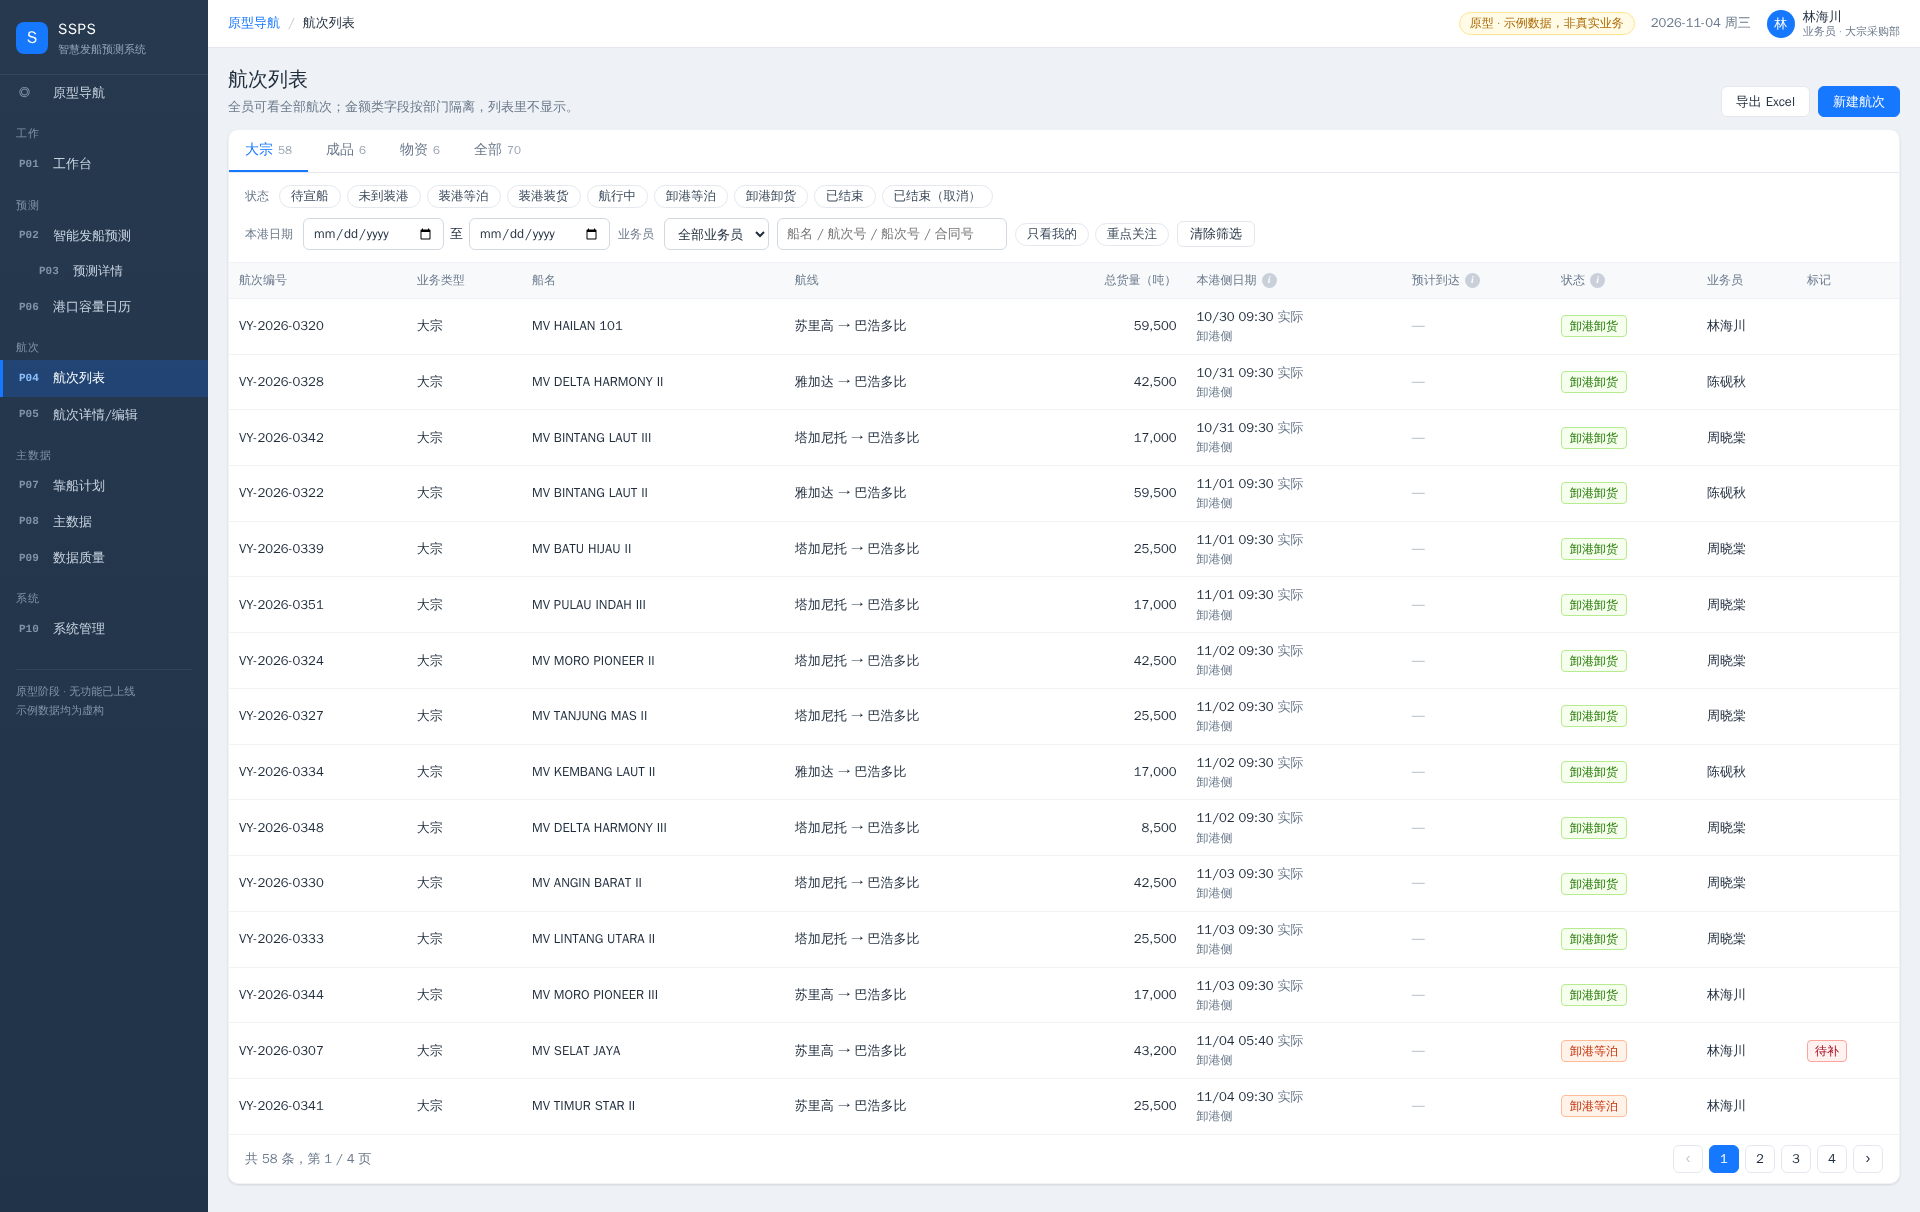
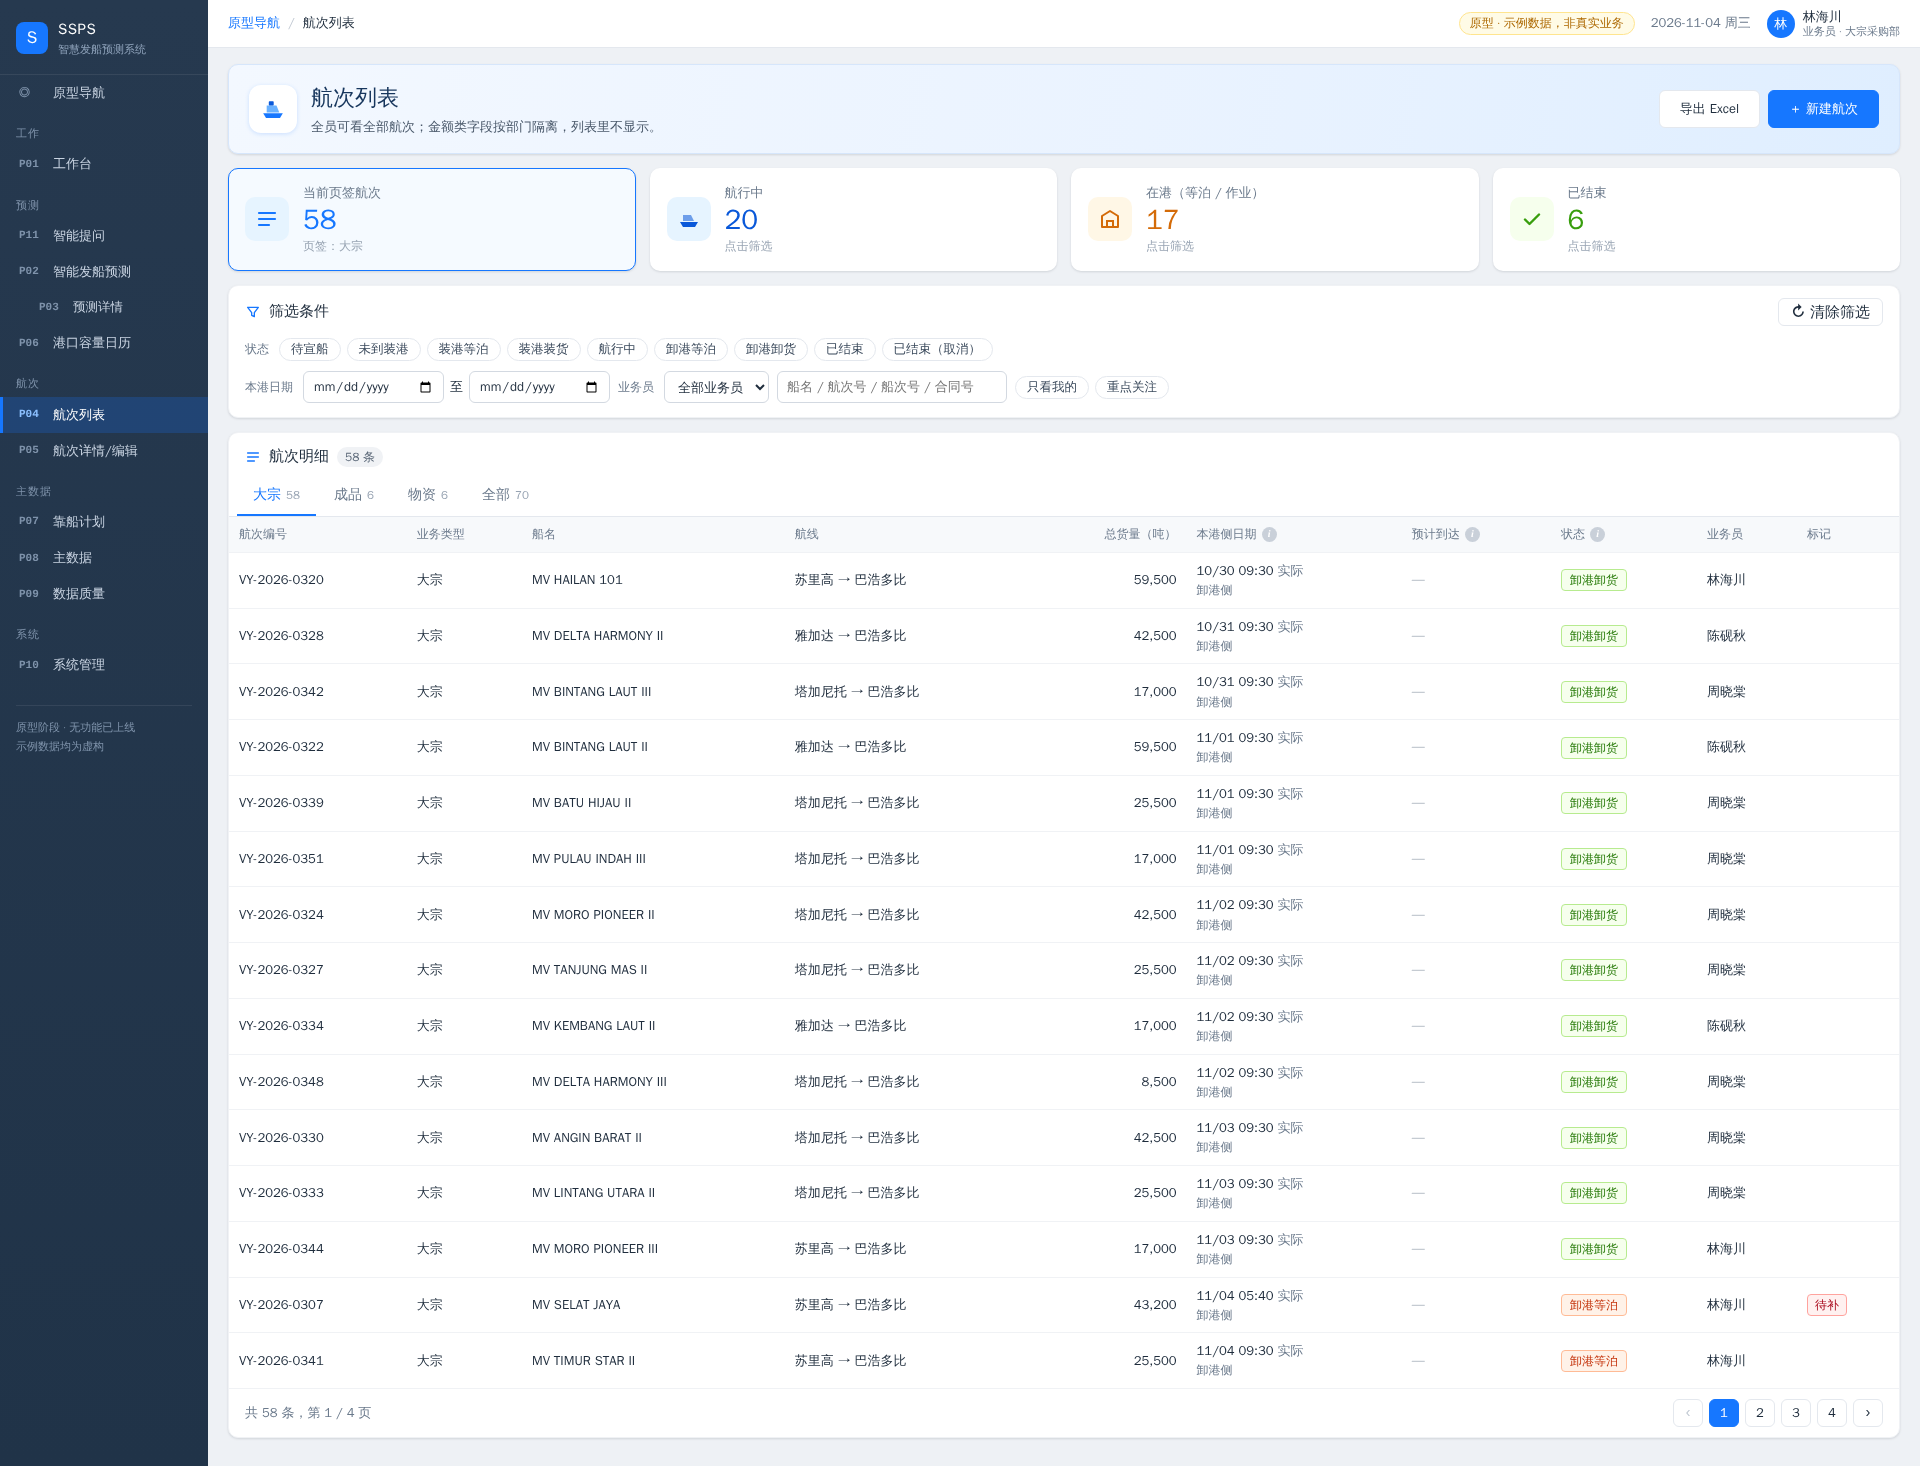
P04 航次列表按新风格重新排版（标题卡、状态指标卡快捷筛选、筛选卡、明细卡）；筛选与排序规则不变
Claude-Session: https://claude.ai/code/session_01S7EgPzREeeBA8rsxhMLUP6

diff --git a/prototype/P04-voyage-list.html b/prototype/P04-voyage-list.html
@@ -6,14 +6,35 @@
 <title>P04 航次列表 · SSPS 原型</title>
 <link rel="stylesheet" href="assets/app.css">
 <style>
+/* 2026-11-05 按 P01/P02 新风格重排；筛选、排序、分页规则不变 */
+.hero{display:flex;justify-content:space-between;align-items:center;gap:14px;flex-wrap:wrap;padding:16px 20px;margin-bottom:14px;background:linear-gradient(100deg,#f3f8ff 0%,#eaf3ff 55%,#dfeeff 100%);border:1px solid #d6e6fb}
+.hero .ht{display:flex;align-items:center;gap:14px;min-width:0}
+.hero .av{width:48px;height:48px;border-radius:12px;background:#fff;display:grid;place-items:center;box-shadow:0 1px 4px rgba(22,119,255,.18);flex:none}
+.hero h1{margin:0;font-size:22px;color:#17365d}
+.hero p{margin:2px 0 0;color:#4a596b}
 .btns{display:flex;gap:8px;flex-wrap:wrap}
+.btns .btn{height:38px;padding:0 20px;white-space:nowrap}
+.sumrow{display:grid;grid-template-columns:repeat(4,minmax(0,1fr));gap:14px;margin-bottom:14px}
+.sm{display:flex;align-items:center;gap:14px;padding:14px 16px;cursor:pointer;border:1px solid transparent;min-width:0}
+.sm:hover{border-color:var(--primary)}
+.sm.on{border-color:var(--primary);background:#f5faff}
+.sm .ico{width:44px;height:44px;border-radius:10px;display:grid;place-items:center;flex:none}
+.sm .ico svg{width:24px;height:24px}
+.sm .lb{color:var(--muted);font-size:13px;white-space:nowrap}
+.sm b{display:block;font-size:28px;line-height:1.2}
+.sm .nt{font-size:12px;color:var(--faint);white-space:nowrap;overflow:hidden;text-overflow:ellipsis}
+.ch{display:flex;align-items:center;gap:8px;padding:12px 16px 6px;font-weight:600;font-size:15px;white-space:nowrap}
+.ch .btn{font-size:13px;font-weight:400}
+.ch .sp{flex:1}.ch .cnt{background:#f0f2f5;color:#5b6878;border-radius:10px;padding:0 8px;font-size:12px;line-height:20px;font-weight:500}
+.fcard{margin-bottom:14px}
+.list .tabs2{padding:0 8px}
 .flt{display:flex;flex-wrap:wrap;gap:8px 8px;align-items:center}
 .flt .lab{color:var(--muted);font-size:12px;white-space:nowrap;margin-right:2px}
 .flt .grp{display:flex;flex-wrap:wrap;gap:6px;align-items:center}
 .dr{display:flex;align-items:center;gap:6px}
 .dr .inp{width:150px}
 .flt .inp{width:auto}
-.fbox{padding:12px 16px;border-bottom:1px solid var(--line-2);display:grid;gap:10px}
+.fbox{padding:6px 16px 14px;display:grid;gap:10px}
 .who{font-weight:600;white-space:nowrap}
 .sub2{display:block;color:var(--muted);font-size:12px;font-weight:400;white-space:nowrap}
 .mk{display:inline-flex;gap:4px;align-items:center;flex-wrap:nowrap}
@@ -35,6 +56,9 @@
   .cards{display:block}
   .dr .inp{width:100%}
   .dr{flex:1}
+  .sumrow{grid-template-columns:repeat(2,minmax(0,1fr));gap:10px}
+  .sm{padding:12px;gap:10px}.sm .ico{width:36px;height:36px}.sm b{font-size:24px}.sm .nt{display:none}
+  .hero{padding:14px}.hero .av{display:none}.btns{width:100%}.btns .btn{flex:1}
 }
 </style>
 </head>
@@ -42,10 +66,14 @@
 <div class="app"><aside id="nav"></aside>
   <div class="main"><header id="topbar"></header>
     <main class="page">
-      <div class="ptitle"><div><h1>航次列表</h1><p>全员可看全部航次；金额类字段按部门隔离，列表里不显示。</p></div>
-        <div class="btns"><button class="btn" id="exp">导出 Excel</button><button class="btn primary" id="newv">新建航次</button></div></div>
-      <section class="card">
-        <div class="tabs2" id="tabs"></div>
+      <div class="card hero">
+        <div class="ht"><div class="av"><svg width="28" height="28" viewBox="0 0 40 40"><path d="M6 26h28l-4 7H10z" fill="#1677ff"/><path d="M11 25V15h14l4 10z" fill="#69b1ff"/><rect x="14" y="9" width="7" height="6" rx="1" fill="#0958d9"/></svg></div>
+          <div><h1>航次列表</h1><p>全员可看全部航次；金额类字段按部门隔离，列表里不显示。</p></div></div>
+        <div class="btns"><button class="btn" id="exp">导出 Excel</button><button class="btn primary" id="newv">＋ 新建航次</button></div>
+      </div>
+      <div class="sumrow" id="sum"></div>
+      <section class="card fcard">
+        <div class="ch"><svg width="16" height="16" viewBox="0 0 24 24"><path d="M4 5h16l-6 8v6l-4-2v-4z" fill="none" stroke="#1677ff" stroke-width="2" stroke-linejoin="round"/></svg>筛选条件<span class="sp"></span><button class="btn" id="clr" style="padding:2px 12px">↻ 清除筛选</button></div>
         <div class="fbox">
           <div class="flt"><span class="lab">状态</span><div class="grp" id="stf"></div></div>
           <div class="flt">
@@ -53,9 +81,12 @@
             <span class="lab">业务员</span><select class="inp" id="own"></select>
             <input class="inp" id="kw" placeholder="船名 / 航次号 / 船次号 / 合同号" style="min-width:230px">
             <div class="grp"><button class="chipf" id="onlyMe">只看我的</button><button class="chipf" id="onlyStar">重点关注</button></div>
-            <button class="btn" id="clr" style="padding:2px 12px">清除筛选</button>
           </div>
         </div>
+      </section>
+      <section class="card list">
+        <div class="ch"><svg width="16" height="16" viewBox="0 0 24 24"><path d="M4 6h16M4 12h16M4 18h10" stroke="#1677ff" stroke-width="2.2" stroke-linecap="round"/></svg>航次明细<span class="cnt" id="total"></span><span class="sp"></span></div>
+        <div class="tabs2" id="tabs"></div>
         <div class="tbl-wrap"><table class="tbl" id="tbl"></table></div>
         <div class="cards" id="cards"></div>
         <div class="pager" id="pager"></div>
@@ -102,6 +133,26 @@
   const route = (v) => C.zh(v.load) + ' → ' + C.zh(v.disch) + (v.disch2 ? ' / ' + C.zh(v.disch2) : '');
   const dateCell = (v) => { const l = C.localDate(v); return '<span class="nw">' + (l.act ? '<b>' + C.mdh(l.act) + '</b> <span class="mut">实际</span>' : C.md(l.plan) + ' <span class="mut">计划</span>') + '</span>' + (C.side(v) === '装' ? '<span class="sub2">装港侧</span>' : '<span class="sub2">卸港侧</span>'); };
 
+  // 指标卡：当前页签下按状态计数，点一下等于在「状态」里勾选这些状态（只是快捷筛选，规则不变）
+  const GROUPS = [
+    ['all', '当前页签航次', [], '#1677ff', '#e6f4ff', '<path d="M4 6h16M4 12h16M4 18h10" stroke="#COL" stroke-width="2.2" stroke-linecap="round" fill="none"/>'],
+    ['sail', '航行中', ['航行中'], '#0958d9', '#e6f4ff', '<path d="M3 15h18l-3 5H6z" fill="#COL"/><path d="M6 14V8h8l3 6z" fill="#COL" opacity=".55"/>'],
+    ['port', '在港（等泊 / 作业）', ['装港等泊', '装港装货', '卸港等泊', '卸港卸货'], '#d46b08', '#fff7e6', '<path d="M4 20V9l8-5 8 5v11z" fill="none" stroke="#COL" stroke-width="2" stroke-linejoin="round"/><path d="M9 20v-6h6v6" stroke="#COL" stroke-width="2" fill="none"/>'],
+    ['done', '已结束', ['已结束', '已结束（取消）'], '#389e0d', '#f6ffed', '<path d="M5 12.5l4.5 4.5L19 7.5" fill="none" stroke="#COL" stroke-width="2.4" stroke-linecap="round" stroke-linejoin="round"/>'],
+  ];
+  function drawSum() {
+    const keep = S.st; S.st = new Set(); const base = rows(); S.st = keep;
+    const cur = [...S.st].sort().join('|');
+    $('sum').innerHTML = GROUPS.map(([k, lab, sts, col, bg, ic]) => {
+      const n = sts.length ? base.filter((v) => sts.includes(C.statusOf(v))).length : base.length;
+      const on = sts.length ? cur === [...sts].sort().join('|') : !S.st.size;
+      return '<div class="card sm' + (on ? ' on' : '') + '" data-g="' + k + '"><span class="ico" style="background:' + bg + '"><svg viewBox="0 0 24 24">' + ic.replace(/#COL/g, col) + '</svg></span><div style="min-width:0"><span class="lb">' + lab + '</span><b style="color:' + col + '">' + n + '</b><div class="nt">' + (k === 'all' ? '页签：' + S.tab : '点击筛选') + '</div></div></div>';
+    }).join('');
+    $('sum').querySelectorAll('[data-g]').forEach((c) => c.onclick = () => {
+      const g = GROUPS.find((x) => x[0] === c.dataset.g); S.st = new Set(g[2]); S.page = 1;
+      $('stf').querySelectorAll('button').forEach((b) => b.classList.toggle('on', S.st.has(b.dataset.s))); draw();
+    });
+  }
   function draw() {
     const all = rows(), pages = Math.max(1, Math.ceil(all.length / PAGE)); S.page = Math.min(S.page, pages);
     const cur = all.slice((S.page - 1) * PAGE, S.page * PAGE);
@@ -118,6 +169,7 @@
     $('pager').querySelectorAll('[data-p]').forEach((b) => b.onclick = () => { S.page = +b.dataset.p; draw(); });
     const pp = $('pp'), pn = $('pn'); pp.onclick = () => { S.page--; draw(); }; pn.onclick = () => { S.page++; draw(); };
     $('onlyMe').classList.toggle('on', S.me); $('onlyStar').classList.toggle('on', S.star);
+    $('total').textContent = all.length + ' 条'; drawSum();
   }
   // 状态筛选
   $('stf').innerHTML = C.STATUS.concat(['已结束（取消）']).map((s) => '<button class="chipf" data-s="' + s + '">' + s + '</button>').join('');

diff --git a/docs/review/review-pack-1-spec.md b/docs/review/review-pack-1-spec.md
@@ -1900,6 +1900,7 @@ D01–D10 及 D11–D12 见 `docs/schema/D-app-db.md`。库存断料纳入一期
 - [ ] **P07「是否德信」怎么推导**：T10 已删除这个字段（原始文件没有），但 P07 页面保留「是否德信」列和「只看德信船」筛选（Leyinet 2026-11-05 要求），改为显示时按「从属单位」推导，只用于显示和筛选，不影响泊位余量。真实的从属单位有 130 多种写法，原型暂按「含『德信』」判断。请给出算作德信的写法清单（如 德信DSI、德天DCI 是否算）。
 - [x] **P11 按效果图重构**（2026-11-05）：采纳了四阶段流程（输入需求 → 智能解析 → 库存测算 → 生成方案）、可编辑的解析结果、六张指标卡、库存趋势 / 库存明细切换和 7 / 15 / 30 天显示范围、右侧「按物料 / 按风险」分组。计算全部沿用原引擎。效果图里这几项没有做，因为需要新功能或数据、规格里没有：方案对比、保存方案、导出报告、加入跟踪（需要新的存储表）；右侧「按工序」（库存表没有工序字段）；「库存模型设置」（缓冲天数已在页面里可调，15 / 25 天分档沿用德龙版）；顶部通知铃铛。效果图里的「缺料日」统一叫「断料日」。如需其中某项，确认后再进规格。
 - [x] **P02 方案卡片在库存模拟图上面**（2026-11-05 Leyinet）：已调整顺序。
+- [x] **P04 按新风格重新排版**（2026-11-05）：顶部标题卡片（导出 Excel、新建航次）、四张状态指标卡（当前页签航次、航行中、在港、已结束，点击即按状态筛选，只是快捷筛选）、筛选条件卡、航次明细卡；筛选、排序、分页和导出规则不变，手机仍为卡片列表。
 - [x] **P01 按新风格重新排版**（2026-11-05）：顶部欢迎卡片（智能提问、全部航次）、四张带图标的指标卡、四个待办面板改成卡片式列表；待办的统计规则和数量不变，手机宽度单列显示。
 - [x] **P03 按 P02 新风格重新排版**（2026-11-05）：顶部「预测详情」卡片列出本次预测条件（只读）和推荐 / 备选切换；「方案结论」卡片按方案着色；有物料时新增「库存保障与趋势」卡片（与 P02 同款，只标当前方案）；S1 数据依据各步骤改成独立小卡片，库存步骤只保留数字来源表，曲线移到上方卡片；泊位视图和宣船文案不变。计算不变。
 - [x] **P02 按效果图重新排版**（2026-11-05）：预测输入改为顶部横向一行，预测结果概览并入输入卡片底部；「发船方案建议」卡片里并排推荐 / 备选；「库存保障与趋势」左侧指标、右侧趋势图 / 库存明细和 7 / 15 / 30 天 / 全部显示范围；港口容量日历不变。计算不变。效果图里的「方案对比」按钮没有做（推荐、备选已并排，规格里没有单独的对比功能），「同步服务船数」「缺料日」「可实施」按规格用语写成「同期最多船数」「断料日」「可信度」。显示范围只裁剪图表，断料日等标记超出范围时不画，默认「全部」。

diff --git a/docs/open-questions.md b/docs/open-questions.md
@@ -98,6 +98,7 @@
 - [ ] **P07「是否德信」怎么推导**：T10 已删除这个字段（原始文件没有），但 P07 页面保留「是否德信」列和「只看德信船」筛选（Leyinet 2026-11-05 要求），改为显示时按「从属单位」推导，只用于显示和筛选，不影响泊位余量。真实的从属单位有 130 多种写法，原型暂按「含『德信』」判断。请给出算作德信的写法清单（如 德信DSI、德天DCI 是否算）。
 - [x] **P11 按效果图重构**（2026-11-05）：采纳了四阶段流程（输入需求 → 智能解析 → 库存测算 → 生成方案）、可编辑的解析结果、六张指标卡、库存趋势 / 库存明细切换和 7 / 15 / 30 天显示范围、右侧「按物料 / 按风险」分组。计算全部沿用原引擎。效果图里这几项没有做，因为需要新功能或数据、规格里没有：方案对比、保存方案、导出报告、加入跟踪（需要新的存储表）；右侧「按工序」（库存表没有工序字段）；「库存模型设置」（缓冲天数已在页面里可调，15 / 25 天分档沿用德龙版）；顶部通知铃铛。效果图里的「缺料日」统一叫「断料日」。如需其中某项，确认后再进规格。
 - [x] **P02 方案卡片在库存模拟图上面**（2026-11-05 Leyinet）：已调整顺序。
+- [x] **P04 按新风格重新排版**（2026-11-05）：顶部标题卡片（导出 Excel、新建航次）、四张状态指标卡（当前页签航次、航行中、在港、已结束，点击即按状态筛选，只是快捷筛选）、筛选条件卡、航次明细卡；筛选、排序、分页和导出规则不变，手机仍为卡片列表。
 - [x] **P01 按新风格重新排版**（2026-11-05）：顶部欢迎卡片（智能提问、全部航次）、四张带图标的指标卡、四个待办面板改成卡片式列表；待办的统计规则和数量不变，手机宽度单列显示。
 - [x] **P03 按 P02 新风格重新排版**（2026-11-05）：顶部「预测详情」卡片列出本次预测条件（只读）和推荐 / 备选切换；「方案结论」卡片按方案着色；有物料时新增「库存保障与趋势」卡片（与 P02 同款，只标当前方案）；S1 数据依据各步骤改成独立小卡片，库存步骤只保留数字来源表，曲线移到上方卡片；泊位视图和宣船文案不变。计算不变。
 - [x] **P02 按效果图重新排版**（2026-11-05）：预测输入改为顶部横向一行，预测结果概览并入输入卡片底部；「发船方案建议」卡片里并排推荐 / 备选；「库存保障与趋势」左侧指标、右侧趋势图 / 库存明细和 7 / 15 / 30 天 / 全部显示范围；港口容量日历不变。计算不变。效果图里的「方案对比」按钮没有做（推荐、备选已并排，规格里没有单独的对比功能），「同步服务船数」「缺料日」「可实施」按规格用语写成「同期最多船数」「断料日」「可信度」。显示范围只裁剪图表，断料日等标记超出范围时不画，默认「全部」。
